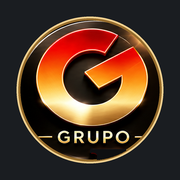
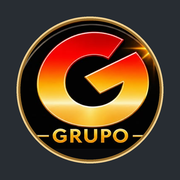
Nova logomarca: site, ícone e imagem de compartilhamento
Claude-Session: https://claude.ai/code/session_01B3kjpeu8QtiMqWAzueqwdR

diff --git a/admin.css b/admin.css
@@ -2,4 +2,4 @@
 #adm{background:#282d33}#adm [hidden]{display:none!important}#adm .w100{width:100%}#adm .btn.sm{padding:10px 16px;font-size:13.5px}#adm .btn.danger,#adm .btn-gold.danger{background:#c43a36;color:#fff;box-shadow:none}#adm .lnk{background:none;border:0;color:var(--gold);font-weight:700;font-size:14px;padding:6px 0}#adm .lnk.danger{color:var(--muted);display:block;margin:6px auto 0}#adm .muted{color:var(--muted)}#adm .small{font-size:12.5px}#adm .hint{display:block;color:#8f9298;font-size:12.5px;margin:-4px 0 12px}#adm .ferr{color:#ff8f8c;font-size:14px;min-height:0;margin:6px 0}#adm .ferr:empty{display:none}#adm .fok{color:#8fe0b0;font-size:14px;margin:6px 0}#adm .fok:empty{display:none}#adm .field textarea{min-height:0}#adm .check{display:flex;gap:10px;align-items:center;cursor:pointer;color:var(--soft);font-size:14.5px;margin:6px 0 14px}#adm .check input{width:18px;height:18px;accent-color:var(--gold)}#adm .auth{min-height:100vh;min-height:100dvh;display:flex;flex-direction:column;align-items:center;justify-content:center;padding:40px 18px;background:radial-gradient(60% 50% at 50% 0%,#d9ad5f1c,transparent 70%),radial-gradient(40% 40% at 100% 100%,#d42a2614,transparent 70%),#282d33}#adm .auth-card{width:min(440px,100%);padding:36px;border-radius:22px;background:#383e45;border:1px solid var(--line2);box-shadow:var(--shadow)}#adm .auth-logo{width:220px;margin:0 auto 22px}#adm .auth h1{font-size:28px;margin:0 0 4px;text-align:center}#adm .auth .sub{text-align:center;color:var(--muted);font-size:14.5px;margin:0 0 24px}#adm .pw{position:relative}#adm .pw input{padding-right:48px}#adm .eye{position:absolute;right:6px;top:50%;transform:translateY(-50%);background:none;border:0;font-size:16px;opacity:.6;padding:8px}#adm .alt-link{text-align:center;color:var(--muted);font-size:14px;margin:18px 0 0}#adm .alt-link button{background:none;border:0;color:var(--gold);font-weight:700;font-size:14px}#adm .back-site{margin-top:22px;color:var(--muted);font-size:14px}#adm .back-site:hover{color:var(--gold2)}#adm .demo-note{padding:16px;border-radius:14px;background:#d9ad5f12;border:1px solid #d9ad5f44;color:var(--soft);font-size:13.5px;line-height:1.55;margin-bottom:24px}#adm .demo-note b{color:var(--gold2)}#adm .demo-note .btn{width:100%;margin-top:14px;padding:12px 16px;font-size:14px;white-space:normal}#adm .app{display:grid;grid-template-columns:260px 1fr;min-height:100vh}#adm .side{position:sticky;top:0;height:100vh;display:flex;flex-direction:column;padding:22px 14px;background:#2d3238;border-right:1px solid var(--line);overflow:auto}#adm .side-logo{width:170px;margin:4px auto 26px}#adm .snav{display:flex;flex-direction:column;gap:2px;flex:1}#adm .snav button,#adm .snav a{display:flex;align-items:center;gap:12px;width:100%;padding:11px 14px;border-radius:10px;background:none;border:0;color:var(--soft);font-size:14.5px;font-weight:600;text-align:left}#adm .snav svg{width:19px;height:19px;flex:none;opacity:.8}#adm .snav button:hover,#adm .snav a:hover{background:#ffffff0a;color:var(--text)}#adm .snav .on{background:#d9ad5f17;color:var(--gold2)}#adm .snav .on svg{opacity:1;color:var(--gold)}#adm .sgrp{font-size:10.5px;font-weight:800;letter-spacing:.18em;text-transform:uppercase;color:#878b91;padding:18px 14px 6px}#adm .dono{display:none!important}#adm .is-dono .dono{display:flex!important}#adm .is-dono .sgrp.dono{display:block!important}#adm .pill-n{margin-left:auto;background:var(--red);color:#fff;font-size:11px;font-weight:800;border-radius:99px;padding:2px 8px}#adm .me{display:flex;gap:12px;align-items:center;padding:14px;margin-top:14px;border-top:1px solid var(--line)}#adm .me b{display:block;font-size:14px}#adm .me small{color:var(--muted);font-size:12px}#adm .av{width:40px;height:40px;flex:none;border-radius:50%;display:grid;place-items:center;background:#454c54;border:1px solid #d9ad5f44;color:var(--gold2);font-weight:800;font-size:13px}#adm .av.gold{background:var(--gold);color:#1a1206}#adm .main{min-width:0;padding:0 34px 60px}#adm .mbar{position:sticky;top:0;z-index:10;display:flex;align-items:center;gap:14px;padding:22px 0 18px;background:#282d33f0;backdrop-filter:blur(10px);border-bottom:1px solid var(--line);margin-bottom:26px}#adm .mbar h1{font-size:28px;margin:0}#adm .mbar .btn{margin-left:auto}#adm .demo-tag{font-size:11px;font-weight:800;letter-spacing:.12em;text-transform:uppercase;color:#1a1206;background:var(--gold);padding:5px 10px;border-radius:99px}#adm .burger2{display:none;width:42px;height:42px;border-radius:10px;border:1px solid var(--line2);background:none;align-items:center;justify-content:center}#adm .burger2 span,#adm .burger2 span::before,#adm .burger2 span::after{display:block;width:18px;height:2px;background:var(--text);position:relative}#adm .burger2 span::before,#adm .burger2 span::after{content:"";position:absolute;left:0}#adm .burger2 span::before{top:-6px}#adm .burger2 span::after{top:6px}#adm .cardx{background:#383e45;border:1px solid var(--line);border-radius:16px;padding:24px;margin-bottom:20px}#adm .cardx.flush{padding:6px 18px}#adm .cardx h2{font-size:20px;margin:0 0 16px}#adm .cardx.narrow{max-width:520px}#adm .cx-h{display:flex;justify-content:space-between;align-items:center;gap:12px;margin-bottom:10px}#adm .cx-h h2{margin:0}#adm .stats4{display:grid;grid-template-columns:repeat(4,1fr);gap:16px;margin-bottom:22px}#adm .stat{display:flex;flex-direction:column;align-items:flex-start;gap:4px;padding:22px;border-radius:16px;background:#383e45;border:1px solid var(--line);text-align:left;color:var(--text);transition:border-color .2s}#adm .stat:hover{border-color:#d9ad5f66}#adm .stat svg{width:22px;height:22px;color:var(--gold);margin-bottom:10px}#adm .stat b{font-family:var(--serif);font-size:36px;line-height:1;font-weight:600}#adm .stat span{color:var(--muted);font-size:13.5px}#adm .prow,#adm .urow{display:grid;grid-template-columns:72px 1fr auto auto;gap:16px;align-items:center;padding:14px 0;border-bottom:1px solid var(--line)}#adm .prow:last-child,#adm .urow:last-child{border-bottom:0}#adm .urow{grid-template-columns:44px 1fr auto auto}#adm .pthumb{width:72px;height:54px;border-radius:8px;overflow:hidden;background:#40474f;display:grid;place-items:center;color:#d9ad5f66}#adm .pthumb img{width:100%;height:100%;object-fit:cover}#adm .pthumb svg{width:24px;height:24px}#adm .pinfo{min-width:0;cursor:pointer}#adm .pinfo b,#adm .uinfo b{display:block;font-size:15.5px;white-space:nowrap;overflow:hidden;text-overflow:ellipsis}#adm .uinfo b em{color:var(--muted);font-style:normal;font-weight:500}#adm .pinfo small,#adm .uinfo small{display:block;color:var(--muted);font-size:13px;white-space:nowrap;overflow:hidden;text-overflow:ellipsis}#adm .pinfo .meta{font-size:12px;color:#8a8e94}#adm .ptags{display:flex;gap:6px;flex-wrap:wrap}#adm .st{font-size:11.5px;font-weight:700;padding:4px 10px;border-radius:99px;background:#49505a;color:var(--muted);white-space:nowrap}#adm .st.on{background:#1fae5b22;color:#7fe0a8}#adm .st.off{background:#d42a2622;color:#ff8f8c}#adm .st.gold{background:#d9ad5f22;color:var(--gold2)}#adm .pacts,#adm .uacts{display:flex;gap:6px;align-items:center;flex-wrap:wrap;justify-content:flex-end}#adm .ic{width:36px;height:36px;border-radius:9px;border:1px solid var(--line2);background:#40474f;color:var(--soft);display:grid;place-items:center;font-size:13px}#adm .ic svg{width:17px;height:17px}#adm .ic:hover{border-color:var(--gold);color:var(--gold2)}#adm .ic.danger:hover{border-color:#d42a26;color:#ff8f8c}#adm .vazio{text-align:center;padding:30px 10px;color:var(--muted)}#adm .vazio .btn{margin-top:6px}#adm .ptools{display:grid;grid-template-columns:1fr 200px 220px;gap:12px;margin-bottom:16px}#adm .ptools input,#adm .ptools select,#adm .drow input,#adm .row-link input{height:46px;padding:0 14px;border-radius:12px;background:#1e2227;border:1px solid #525a64;color:var(--text);outline:none;font-size:14.5px;width:100%}#adm .ptools input:focus,#adm .ptools select:focus,#adm .drow input:focus,#adm .row-link input:focus{border-color:var(--gold)}#adm .ptools select option{background:#383e45}#adm .egrid{display:grid;grid-template-columns:1fr 360px;gap:20px;align-items:start}#adm .sticky{position:sticky;top:100px}#adm .estatus{margin:4px 0 16px;color:var(--muted);font-size:14px}#adm .side2 .btn{margin-top:10px}#adm .prev-h{margin:24px 0 10px;font-size:11px;font-weight:800;letter-spacing:.16em;text-transform:uppercase;color:var(--muted)}#adm #ePrev .pcard{cursor:default}#adm #ePrev .pc{padding:20px}#adm #ePrev .pc h3{font-size:30px}#adm .drow{display:grid;grid-template-columns:1fr 110px 40px;gap:8px;margin-bottom:8px}#adm .drow .ic{height:46px;width:40px}#adm .drop{display:flex;flex-direction:column;align-items:center;gap:6px;padding:30px 16px;border:1.5px dashed #d9ad5f66;border-radius:14px;background:#d9ad5f08;text-align:center;cursor:pointer;transition:.2s}#adm .drop:hover,#adm .drop.over{background:#d9ad5f16;border-color:var(--gold)}#adm .drop svg{width:34px;height:34px;color:var(--gold)}#adm .drop b{font-size:15.5px}#adm .drop span{color:var(--muted);font-size:13px}#adm .row-link{display:grid;grid-template-columns:1fr auto;gap:8px;margin:14px 0}#adm .mgrid{display:grid;grid-template-columns:repeat(auto-fill,minmax(140px,1fr));gap:10px}#adm .mi{position:relative;aspect-ratio:4/3;border-radius:10px;overflow:hidden;background:#40474f;border:1px solid var(--line2)}#adm .mi:first-child{border-color:var(--gold)}#adm .mi img,#adm .mi video{width:100%;height:100%;object-fit:cover}#adm .mi.up img{filter:brightness(.4)}#adm .mt{position:absolute;inset:0;display:grid;place-items:center;font-size:28px;color:var(--gold)}#adm .ml{position:absolute;left:6px;top:6px;font-size:10.5px;font-weight:800;background:#000b;color:#fff;padding:3px 7px;border-radius:5px}#adm .ma{position:absolute;left:0;right:0;bottom:0;display:flex;justify-content:space-between;padding:6px;background:linear-gradient(#0000,#000c)}#adm .ma button{width:30px;height:28px;border-radius:7px;border:0;background:#ffffff22;color:#fff;font-size:12px}#adm .ma button:hover{background:var(--gold);color:#1a1206}#adm .ma .danger:hover{background:#d42a26;color:#fff}#adm .spin{position:absolute;left:50%;top:50%;width:30px;height:30px;margin:-15px;border-radius:50%;border:3px solid #fff3;border-top-color:var(--gold);animation:gira 0.8s linear infinite}
 @keyframes gira{to{transform:rotate(360deg)}}#adm .tbl{width:100%;border-collapse:collapse;font-size:14px}#adm .tbl th{text-align:left;color:var(--muted);font-size:11.5px;font-weight:800;letter-spacing:.1em;text-transform:uppercase;padding:10px 12px;border-bottom:1px solid var(--line2)}#adm .tbl td{padding:11px 12px;border-bottom:1px solid var(--line);color:var(--soft)}#adm .dlg{position:fixed;inset:0;z-index:100;display:none;align-items:center;justify-content:center;padding:18px;background:#000b}#adm .dlg.show{display:flex}#adm .dlg-box{width:min(460px,100%);padding:26px;border-radius:18px;background:#383e45;border:1px solid var(--line2);box-shadow:var(--shadow)}#adm .dlg-box h3{font-size:22px;margin:0 0 12px}#adm .dlg-box p{color:var(--soft);margin:0 0 12px}#adm .dlg-a{display:flex;justify-content:flex-end;gap:10px;margin-top:18px}#adm .toasts{position:fixed;right:20px;bottom:20px;z-index:120;display:flex;flex-direction:column;gap:10px}#adm .toast{padding:13px 18px;border-radius:12px;background:#1d3a2a;border:1px solid #1fae5b66;color:#d8f5e3;font-size:14px;max-width:360px;box-shadow:0 12px 30px -10px #000;animation:entra .25s}#adm .toast.err{background:#3a1d1d;border-color:#d42a2666;color:#ffd7d6}#adm .toast.out{opacity:0;transform:translateY(8px);transition:.4s}
 @keyframes entra{from{opacity:0;transform:translateY(10px)}}@media(max-width:1100px){#adm .egrid{grid-template-columns:1fr}#adm .sticky{position:static}#adm .stats4{grid-template-columns:1fr 1fr}}@media(max-width:860px){#adm .app{grid-template-columns:1fr}#adm .side{position:fixed;z-index:50;left:0;top:0;width:280px;transform:translateX(-100%);transition:transform .25s;box-shadow:20px 0 60px #000}#adm .side.open{transform:none}#adm .burger2{display:flex}#adm .main{padding:0 16px 60px}#adm .mbar h1{font-size:21px}#adm .mbar .btn{padding:9px 12px;font-size:0;gap:0}#adm .mbar .btn svg{width:20px;height:20px}#adm .ptools{grid-template-columns:1fr}#adm .prow{grid-template-columns:60px 1fr;row-gap:10px}#adm .pthumb{width:60px;height:46px}#adm .prow .ptags,#adm .prow .pacts{grid-column:1/-1}#adm .prow .pacts{justify-content:flex-start}#adm .urow{grid-template-columns:44px 1fr}#adm .urow .ptags,#adm .urow .uacts{grid-column:1/-1}#adm .urow .uacts{justify-content:flex-start}#adm .tbl{font-size:12.5px}#adm .tbl td,#adm .tbl th{padding:8px 6px}#adm .cardx{padding:18px}
-}#adm .view{padding:0}#adm .st.amb{background:#e8b04b22;color:#f3cd84}#adm .sugs{display:flex;flex-wrap:wrap;gap:6px;margin:0 0 14px}#adm .sugs button{padding:6px 11px;border-radius:99px;border:1px dashed #d9ad5f66;background:none;color:var(--gold2);font-size:12.5px;font-weight:600}#adm .sugs button:hover{background:#d9ad5f14;border-style:solid}#adm .ficha-r{grid-template-columns:1fr 1.3fr 40px}#adm .fmt{display:grid;grid-template-columns:1fr 1fr;gap:8px}#adm .fmt button{display:flex;flex-direction:column;align-items:flex-start;gap:2px;padding:12px;border-radius:12px;border:1px solid var(--line2);background:#1e2227;color:var(--text);text-align:left}#adm .fmt button.on{border-color:var(--gold);background:#d9ad5f12}#adm .fmt i{display:block;height:22px;border-radius:4px;margin-bottom:8px;background:#d9ad5f44}#adm .fmt i.f1{width:45%}#adm .fmt i.f2{width:100%}#adm .fmt span{font-size:14px;font-weight:700}#adm .fmt small{font-size:11.5px;color:var(--muted)}#adm .side2 .field{margin-bottom:12px}#adm .dist-r{grid-template-columns:1fr 90px 150px 40px}#adm .dist-r select{height:46px;padding:0 10px;border-radius:12px;background:#1e2227;border:1px solid #525a64;color:var(--text);outline:none;font-size:14px}#adm .dist-r select:focus{border-color:var(--gold)}#adm .dhead-r{display:grid;grid-template-columns:1fr 90px 150px 40px;gap:8px;margin:4px 0 6px;font-size:11px;font-weight:800;letter-spacing:.1em;text-transform:uppercase;color:var(--muted)}@media(max-width:620px){#adm .dist-r,#adm .dhead-r{grid-template-columns:1fr 70px}#adm .dist-r select{grid-column:1/2}#adm .dhead-r span:nth-child(n+3){display:none}}#adm .back-site{background:none;border:0;cursor:pointer;font:inherit;font-size:14px;color:var(--muted)}#adm .back-site:hover{color:var(--gold2)}#adm .snav button[data-adm-fechar]{color:var(--soft)}
+}#adm .view{padding:0}#adm .st.amb{background:#e8b04b22;color:#f3cd84}#adm .sugs{display:flex;flex-wrap:wrap;gap:6px;margin:0 0 14px}#adm .sugs button{padding:6px 11px;border-radius:99px;border:1px dashed #d9ad5f66;background:none;color:var(--gold2);font-size:12.5px;font-weight:600}#adm .sugs button:hover{background:#d9ad5f14;border-style:solid}#adm .ficha-r{grid-template-columns:1fr 1.3fr 40px}#adm .fmt{display:grid;grid-template-columns:1fr 1fr;gap:8px}#adm .fmt button{display:flex;flex-direction:column;align-items:flex-start;gap:2px;padding:12px;border-radius:12px;border:1px solid var(--line2);background:#1e2227;color:var(--text);text-align:left}#adm .fmt button.on{border-color:var(--gold);background:#d9ad5f12}#adm .fmt i{display:block;height:22px;border-radius:4px;margin-bottom:8px;background:#d9ad5f44}#adm .fmt i.f1{width:45%}#adm .fmt i.f2{width:100%}#adm .fmt span{font-size:14px;font-weight:700}#adm .fmt small{font-size:11.5px;color:var(--muted)}#adm .side2 .field{margin-bottom:12px}#adm .dist-r{grid-template-columns:1fr 90px 150px 40px}#adm .dist-r select{height:46px;padding:0 10px;border-radius:12px;background:#1e2227;border:1px solid #525a64;color:var(--text);outline:none;font-size:14px}#adm .dist-r select:focus{border-color:var(--gold)}#adm .dhead-r{display:grid;grid-template-columns:1fr 90px 150px 40px;gap:8px;margin:4px 0 6px;font-size:11px;font-weight:800;letter-spacing:.1em;text-transform:uppercase;color:var(--muted)}@media(max-width:620px){#adm .dist-r,#adm .dhead-r{grid-template-columns:1fr 70px}#adm .dist-r select{grid-column:1/2}#adm .dhead-r span:nth-child(n+3){display:none}}#adm .back-site{background:none;border:0;cursor:pointer;font:inherit;font-size:14px;color:var(--muted)}#adm .back-site:hover{color:var(--gold2)}#adm .snav button[data-adm-fechar]{color:var(--soft)}#adm .auth-logo{width:200px}#adm .side-logo{width:150px}

diff --git a/style.css b/style.css
@@ -822,5 +822,13 @@ button.restrito.loading svg{animation:gira .8s linear infinite}
 @keyframes barra{from{transform:scaleX(0)}to{transform:scaleX(1)}}
 @media(max-width:620px){.hvid-ui{bottom:14px}.hvid-dots button{width:22px}.hvid::after{background:linear-gradient(180deg,#282d33b3 0%,#282d3366 40%,#282d33cc 75%,#282d33 100%)}}
 @media (prefers-reduced-motion:reduce){.hvid{display:none}}
+/* V17: nova logomarca (proporção 900x477) */
+.nav .brand img{aspect-ratio:900/477;height:80px}
+.top.c1 .nav .brand img{height:70px}
+.top.c2 .nav .brand img{height:62px}
+.top.c3 .nav .brand img{height:56px}
+@media(max-width:620px){.nav .brand img{height:64px}}
+.fbrand img{height:104px}
+.about-card img{max-width:420px;margin:0 auto}
 
 @media(max-width:620px){.menu{top:84px}}
